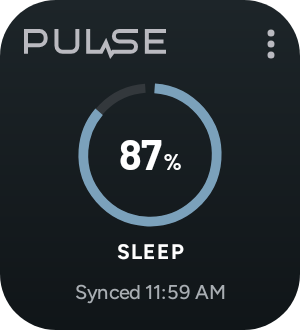
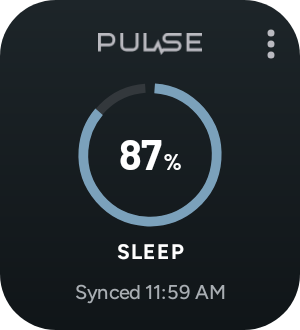
fix(widgets): centre a smaller wordmark on the small widget
At the small widget's size the full-size wordmark had to sit at the left to clear the configure dots. Draw it 11 dp tall instead, centred as on the larger widgets.

Changed region(s): [[0.06, 0.0909, 0.69, 0.1818]]

diff --git a/docs/widgets.md b/docs/widgets.md
@@ -51,7 +51,7 @@ Automated test/build results and their limits belong in the change's review note
 
 ### Look
 
-The widget uses the app's own design: the Pulse wordmark (centred as on Home; at the left on Small, where a centred one would meet the ⋮ at 110 dp), Barlow for numbers and Figtree for labels, and the palette tokens of `src/ui/palette.ts`. Sleep, Recovery and Strain are Home's md dial (the 4°–356° track and fill on a 92-unit box, the value in Barlow inside, the uppercase label under it). Other metrics, the heart-rate card and Large's bottom row are the app's card (`card-top` to `card`, a 1 dp rim, 16 dp corners inside the widget's 28 dp corners and 12 dp padding). The rows share the body by weight (42/33/25 on Large, 8 dp gaps), so there is no dead space above the footer at any size. Labels shrink to 80 % before they ellipsize.
+The widget uses the app's own design: the Pulse wordmark (centred as on Home; drawn smaller on Small, 11 dp tall, so it stays clear of the ⋮ at 110 dp), Barlow for numbers and Figtree for labels, and the palette tokens of `src/ui/palette.ts`. Sleep, Recovery and Strain are Home's md dial (the 4°–356° track and fill on a 92-unit box, the value in Barlow inside, the uppercase label under it). Other metrics, the heart-rate card and Large's bottom row are the app's card (`card-top` to `card`, a 1 dp rim, 16 dp corners inside the widget's 28 dp corners and 12 dp padding). The rows share the body by weight (42/33/25 on Large, 8 dp gaps), so there is no dead space above the footer at any size. Labels shrink to 80 % before they ellipsize.
 
 - `res/drawable/pulse_widget_wordmark.xml` is generated from `build(STROKE.bold)` in `src/ui/brand.tsx`: the same path, not "PULSE" set in a font. Regenerate it if the wordmark changes.
 - `res/font/` holds only the weights drawn: Barlow 700 and 600, Figtree 700 and 500 (OFL, from `@expo-google-fonts`).
